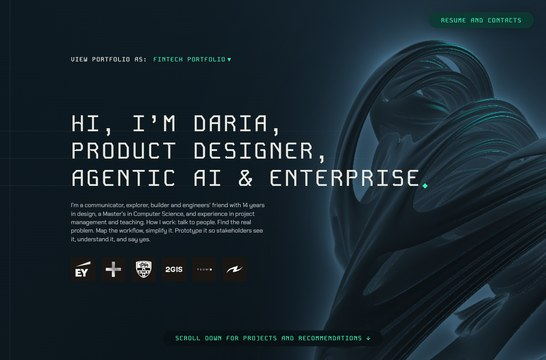
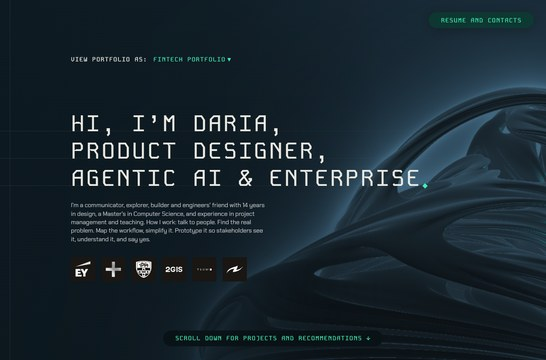
Fintech hero: saved fractal position (laptop: rotated, larger, lower right)

diff --git a/fintech/julia.js b/fintech/julia.js
@@ -109,7 +109,7 @@ void main(){
 const VS=`#version 300 es
 in vec2 a;void main(){gl_Position=vec4(a,0,1);}`;
 // Object position: u/v = centre as a fraction of hero width/height, z = size, yaw/pitch = camera angle
-const POSITION={"wide": {"u": 0.8850274555450337, "v": 0.8651449245876736, "z": 1.68, "yaw": 5.145425292968761, "pitch": -0.3342973632812509}, "narrow": {"u": 0.5, "v": 0.625, "z": 0.87, "yaw": 4.145775390625007, "pitch": 0.6840480957031247}};
+const POSITION={"wide":{"roll":0.7328554841775412,"u":0.7669113243319154,"v":1.0940540640517942,"z":1.9518815291131284,"yaw":5.145425292968761,"pitch":-0.3342973632812509},"narrow":{"u":0.5,"v":0.625,"z":0.87,"yaw":4.145775390625007,"pitch":0.6840480957031247,"roll":0}};
 const layout=()=>hero.clientWidth/hero.clientHeight>1.15?'wide':'narrow';
 // Fine-tuning: open the page with #adjust. Drag moves the object, Shift-drag turns it clockwise or
 // anticlockwise, Alt-drag orbits the camera, scroll zooms. "Copy position" puts the JSON on the
